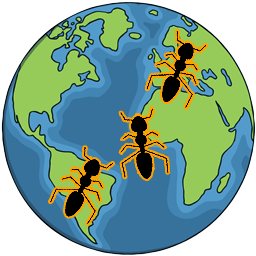
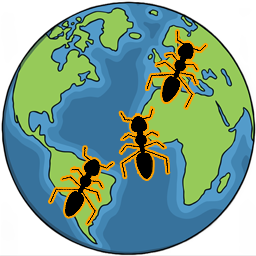
README.md changes

diff --git a/README.md b/README.md
@@ -9,12 +9,12 @@
 An app for accuairing data, sech as locations coordinates or region borders, from OSM map.
 
 ## Usage
-1. Run  earth_crawler_gui.py or compiled Earth Crawler.exe
-2. Choose search mode (World, Country or State).
+1. Run  earth_crawler_gui.py or compiled Earth Crawler.exe from <i>Releases</i> section.
+2. Choose a search mode (World, Country or State).
 3. Type region name you want to search. Region administrative level can be specified too. Format: `region_name=admin_level`, where `admin_level` has to be between 3 and 10. In order to load multiple objects at once, use `;` as separator.
 4. Configure search settings if needed.
 5. Click <b>Search</b> button or press <b>Enter</b>.
-6. If <b>Choose from results</b> option was chosen - switch to <b>Search results</b> tab and pick one from list. Then repeat stage 5.
+6. If the <b>Choose from results</b> option was chosen - switch to <b>Search results</b> tab and select one from list. Then repeat stage 5.
 
 ## Screenshots
 
